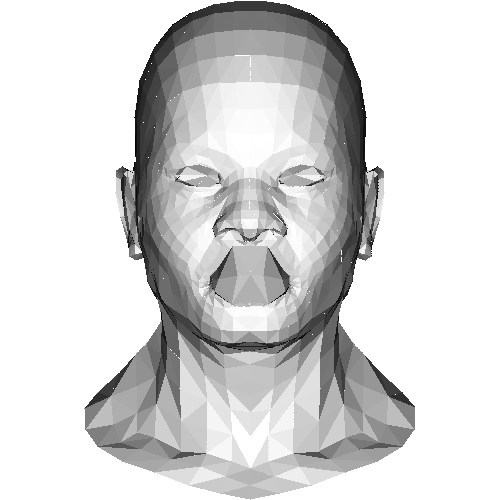
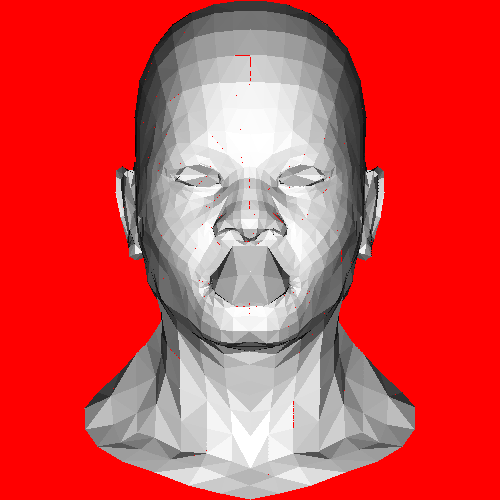
triangle_test

diff --git a/common_class.py b/common_class.py
@@ -12,17 +12,20 @@ class RenderTarget(object):
 	data = attr.ib(factory=lambda: numpy.array([]))
 	w = attr.ib(default=0)
 	h = attr.ib(default=0)
-	
+
 	@classmethod
-	def from_w_h(cls, w, h):
+	def from_w_h(cls, w, h, color):
+		assert len(color) == 4
 		c = cls(None, w, h)
-		c.data = numpy.zeros((h, w, 4), dtype=numpy.dtype('uint8'))
+		d = numpy.tile(numpy.array(color, dtype=numpy.dtype('uint8')), w * h)
+		d.resize(h, w, 4)
+		c.data = d
 		return c
-	
+
 	def as_image(self) -> Image.Image:
 		m = Image.fromarray(self.data)
 		return m
-	
+
 	@property
 	def size(self):
 		return self.w, self.h
@@ -32,24 +35,24 @@ class RenderTarget(object):
 class Color(object):
 	data = attr.ib(factory=lambda: numpy.array([]))
 	maxColor = 255.999999
-	
+
 	def as_rgba_tuple(self):
 		tmp = self.data * self.maxColor
 		tmp = tmp.astype(numpy.dtype('uint8'))
 		return tuple(tmp.tolist())
-	
+
 	@property
 	def r(self):
 		return self.data[0]
-	
+
 	@property
 	def g(self):
 		return self.data[1]
-	
+
 	@property
 	def b(self):
 		return self.data[2]
-	
+
 	@property
 	def a(self):
 		return self.data[3]
@@ -59,14 +62,14 @@ class Color(object):
 class Vector(object):
 	data = attr.ib(factory=lambda: numpy.array([]))
 	length = attr.ib(default=0)
-	
+
 	@classmethod
 	def from_size(cls, w):
 		c = cls()
 		c.length = w
 		c.data = numpy.zeros(w, dtype=float)
 		return c
-	
+
 	def normalize(self):
 		n = numpy.linalg.norm(self.data)
 		if n > 0:
@@ -76,15 +79,15 @@ class Vector(object):
 @attr.s
 class Vertex(object):
 	xyzw = attr.ib(factory=lambda: numpy.array([]))
-	
+
 	@property
 	def x(self):
 		return self.xyzw[0]
-	
+
 	@property
 	def y(self):
 		return self.xyzw[1]
-	
+
 	@property
 	def z(self):
 		return self.xyzw[2]

diff --git a/t1.py b/t1.py
@@ -10,7 +10,7 @@ import numpy
 
 
 def test1():  # draw wireframe
-	rt = common_class.RenderTarget.from_w_h(500, 500)
+	rt = common_class.RenderTarget.from_w_h(500, 500, (0, 0, 0, 255))
 	mod = model.ObjParser()
 	mod.open_obj_file('res/obj/african_head.obj')
 	c = common_class.Color(numpy.array([0, 0, 1, 1.0]))
@@ -28,7 +28,7 @@ def test1():  # draw wireframe
 
 
 def test2():  # draw triangle
-	rt = common_class.RenderTarget.from_w_h(500, 500)
+	rt = common_class.RenderTarget.from_w_h(500, 500, (255, 0, 0, 255))
 	mod = model.ObjParser()
 	mod.open_obj_file('res/obj/african_head.obj')
 
